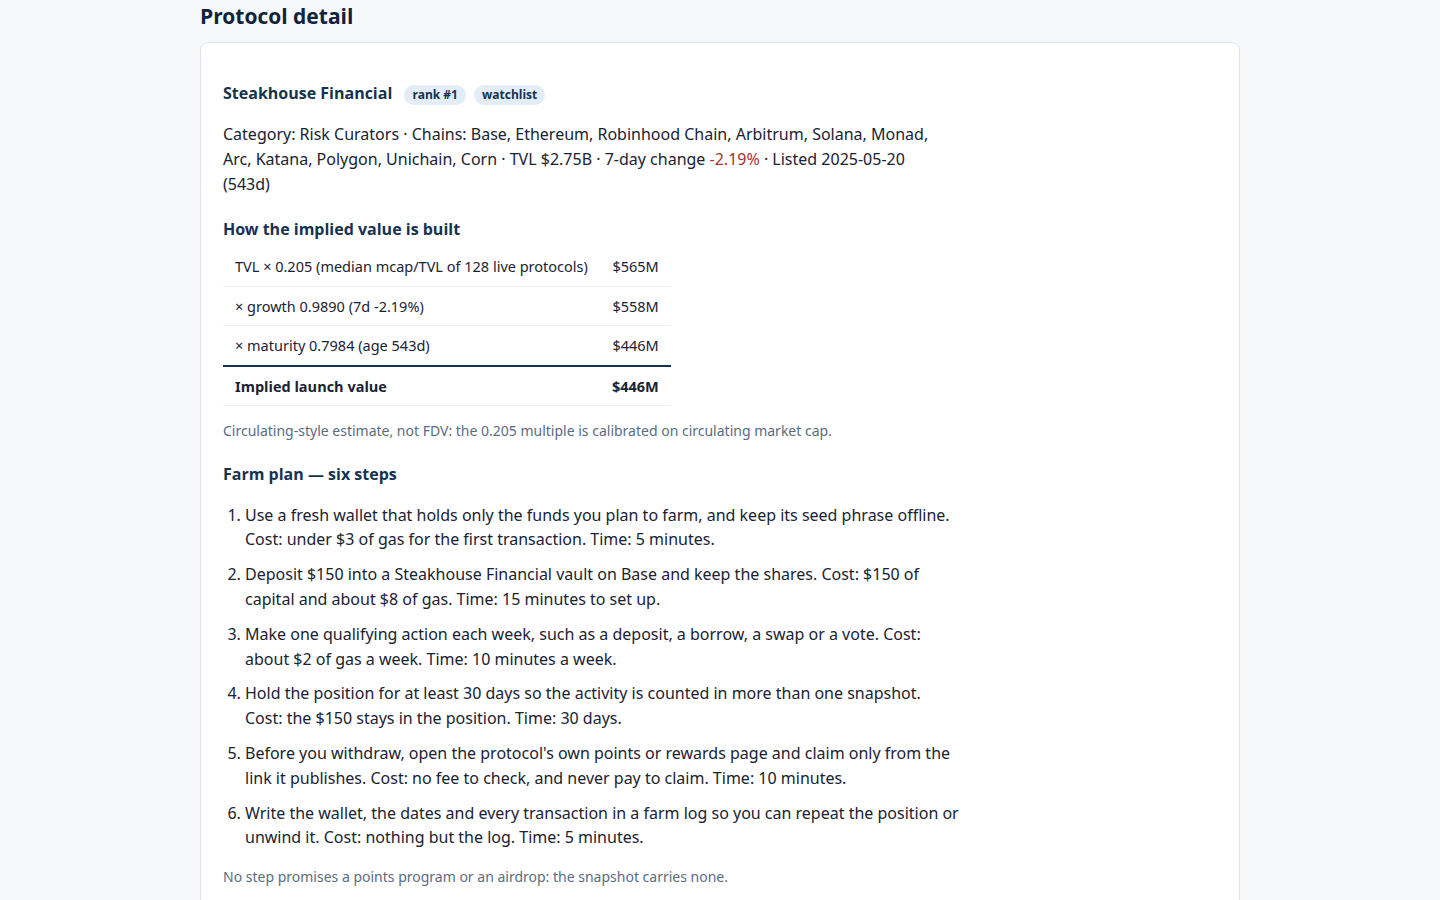
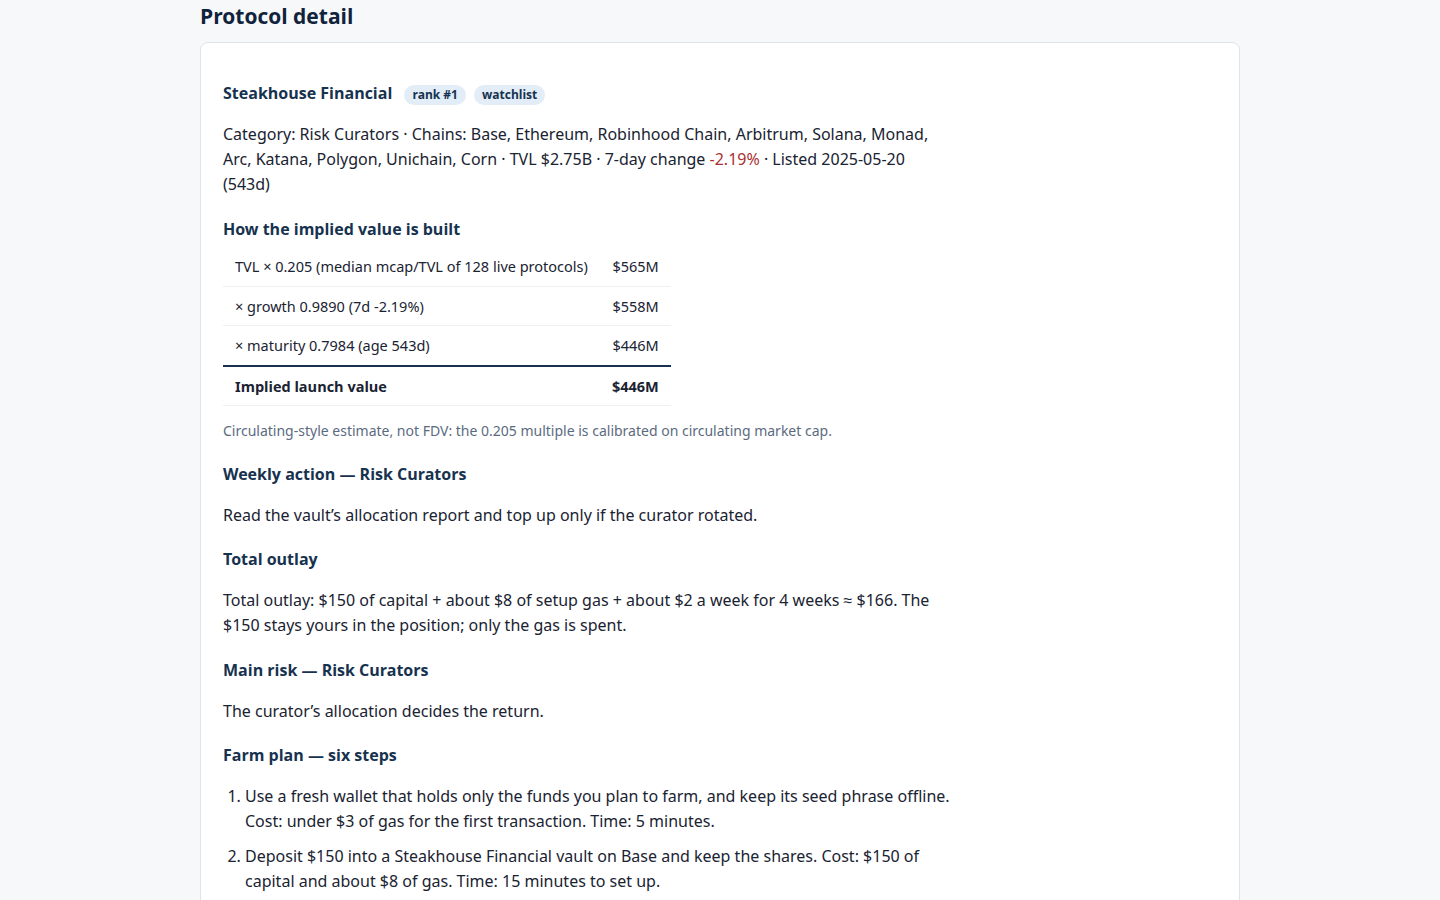
Token Radar pivot P2: per-protocol detail extras (criteria 3)
- Detail view gains three category-specific blocks, rendered between the
  factor breakdown and the six steps so they sit inside the screenshot
  frame: 'Weekly action' per category, 'Total outlay' computed from the
  plan's own numbers (capital + setup gas + weekly gas x hold weeks),
  and 'Main risk' per category.
- All derived in app.js from the row's own fields (category, TVL, age)
  with the same substring rules and tiers as main.ts. The six farm steps
  stay verbatim from board.json; main.ts untouched per the build order.
- Verified live across 13 categories (incl. the Yield Aggregator
  generic fallback, which correctly skips the yield-vault line). Gates
  7/7 PASS.

Changed region(s): [[0.1562, 0.4978, 0.6562, 0.9956]]

diff --git a/dashboard/app.js b/dashboard/app.js
@@ -129,6 +129,96 @@
     $('board-meta').textContent = rows.length + ' of ' + R.rows.length + ' rows shown.';
   }
 
+  // ---- per-category detail extras (derived from the row's own fields) ----
+  // Same substring rules, in the same order, as the plan generator's
+  // category branches — so the detail never disagrees with board.json.
+  // The six farm steps stay verbatim from the row; these lines are extras.
+  function catKey(c) { return (c || '').toLowerCase(); }
+  function weeklyFor(c) {
+    var k = catKey(c);
+    if (k.indexOf('lend') >= 0 || k.indexOf('cdp') >= 0 || k.indexOf('collateral') >= 0)
+      return 'Repay a small part of the borrow and re-supply the same week, so both legs of the position stay active.';
+    if (k.indexOf('dex') >= 0 || k.indexOf('leveraged farm') >= 0)
+      return 'Swap a small amount through the pool and add the fees back to the position.';
+    if (k.indexOf('yield') >= 0 && k.indexOf('yield aggregator') < 0)
+      return 'Claim any accrued yield and redeposit it into the same vault.';
+    if (k.indexOf('bridge') >= 0)
+      return 'Use the bridge once for a small amount and keep the receipt; skip the week if the route is no longer the cheapest.';
+    if (k.indexOf('restak') >= 0)
+      return 'Claim the week\u2019s restaking rewards and restake them.';
+    if (k.indexOf('staking') >= 0)
+      return 'Claim the week\u2019s staking rewards and restake them.';
+    if (k.indexOf('perpetual') >= 0 || k.indexOf('derivative') >= 0)
+      return 'Close the hedge and reopen it, so the position stays inside its margin.';
+    if (k.indexOf('prediction') >= 0)
+      return 'Settle this week\u2019s market position and place the next one.';
+    if (k.indexOf('curator') >= 0 || k.indexOf('allocator') >= 0)
+      return 'Read the vault\u2019s allocation report and top up only if the curator rotated.';
+    if (k.indexOf('basis') >= 0)
+      return 'Check the basis vault\u2019s funding rate and hold the position.';
+    if (k.indexOf('rwa') >= 0)
+      return 'Check the asset\u2019s backing report and hold — no weekly trade is needed.';
+    if (k.indexOf('insurance') >= 0)
+      return 'Check the cover is still active; no weekly action unless the policy nears expiry.';
+    if (k.indexOf('stable') >= 0)
+      return 'Check the peg and hold the stable position.';
+    if (k.indexOf('payment') >= 0)
+      return 'Send one small payment through the app and keep the receipt.';
+    if (k.indexOf('governance') >= 0)
+      return 'Vote on the week\u2019s open proposal, or delegate if there is none.';
+    if (k.indexOf('chain') >= 0)
+      return 'Use the chain\u2019s flagship app once this week and keep the receipt.';
+    if (k.indexOf('cede') >= 0)
+      return 'Check the custodian\u2019s statement and hold the position.';
+    return 'Make one qualifying action this week — a deposit, a borrow, a swap or a vote — and record it in the farm log.';
+  }
+  function riskFor(c) {
+    var k = catKey(c);
+    if (k.indexOf('lend') >= 0 || k.indexOf('cdp') >= 0 || k.indexOf('collateral') >= 0)
+      return 'Liquidation if the collateral falls below the borrow.';
+    if (k.indexOf('dex') >= 0 || k.indexOf('leveraged farm') >= 0)
+      return 'Impermanent loss if the pool\u2019s price ratio moves.';
+    if (k.indexOf('yield') >= 0 && k.indexOf('yield aggregator') < 0)
+      return 'The vault\u2019s strategy can change; the yield is not guaranteed.';
+    if (k.indexOf('bridge') >= 0)
+      return 'Bridged funds depend on the bridge staying solvent.';
+    if (k.indexOf('restak') >= 0 || k.indexOf('staking') >= 0)
+      return 'Slashing, or the receipt token losing its peg.';
+    if (k.indexOf('perpetual') >= 0 || k.indexOf('derivative') >= 0)
+      return 'Funding payments can eat the margin.';
+    if (k.indexOf('prediction') >= 0)
+      return 'A wrong market call loses the stake.';
+    if (k.indexOf('curator') >= 0 || k.indexOf('allocator') >= 0)
+      return 'The curator\u2019s allocation decides the return.';
+    if (k.indexOf('basis') >= 0)
+      return 'The basis trade can unwind if funding flips.';
+    if (k.indexOf('rwa') >= 0)
+      return 'The real-world backing is only as good as its custodian.';
+    if (k.indexOf('insurance') >= 0)
+      return 'A claim can be denied if the policy\u2019s conditions are not met.';
+    if (k.indexOf('stable') >= 0)
+      return 'A depeg breaks the stable value.';
+    if (k.indexOf('payment') >= 0)
+      return 'A failed payment can strand funds in transit.';
+    if (k.indexOf('governance') >= 0)
+      return 'A vote can go against your position.';
+    if (k.indexOf('chain') >= 0)
+      return 'The chain itself is the risk — an outage freezes the position.';
+    if (k.indexOf('cede') >= 0)
+      return 'The custodian holds the funds.';
+    return 'The position can lose value if the protocol\u2019s terms change.';
+  }
+  // Total outlay from the plan's own numbers: capital tiers, setup gas and
+  // hold rule are the same as the plan generator's (TVL and age only).
+  function outlayFor(r) {
+    var capital = r.tvl_usd >= 5e9 ? 250 : r.tvl_usd >= 1e9 ? 150 : r.tvl_usd >= 1e8 ? 100 : 50;
+    var setupGas = capital >= 150 ? 8 : 4;
+    var age = r.age_days;
+    var hold = age === null || age === undefined ? 30 : age < 180 ? 60 : age < 365 ? 45 : 30;
+    var weeks = Math.round(hold / 7);
+    return { capital: capital, setupGas: setupGas, weeks: weeks, total: capital + setupGas + 2 * weeks };
+  }
+
   // ---- detail ----
   function showDetail(slug) {
     var r = null;
@@ -138,6 +228,7 @@
     renderBoard();
     var base = Math.round(r.tvl_usd * R.model.base_multiple);
     var afterGrowth = Math.round(base * r.growth_multiplier);
+    var o = outlayFor(r);
     var body = $('detail-body');
     body.innerHTML =
       '<h3>' + esc(r.name) + ' <span class="tag">rank #' + r.rank + '</span>' +
@@ -153,6 +244,12 @@
       '<tr class="total"><td>Implied launch value</td><td class="num">' + money(r.implied_value_usd) + '</td></tr>' +
       '</tbody></table>' +
       '<p class="meta">Circulating-style estimate, not FDV: the 0.205 multiple is calibrated on circulating market cap.</p>' +
+      '<h3>Weekly action — ' + esc(r.category || 'this category') + '</h3>' +
+      '<p>' + esc(weeklyFor(r.category)) + '</p>' +
+      '<h3>Total outlay</h3>' +
+      '<p>Total outlay: $' + o.capital + ' of capital + about $' + o.setupGas + ' of setup gas + about $2 a week for ' + o.weeks + ' weeks &asymp; $' + o.total + '. The $' + o.capital + ' stays yours in the position; only the gas is spent.</p>' +
+      '<h3>Main risk — ' + esc(r.category || 'this category') + '</h3>' +
+      '<p>' + esc(riskFor(r.category)) + '</p>' +
       '<h3>Farm plan — six steps</h3>' +
       '<ol class="farm">' + r.farm_steps.map(function (s) { return '<li>' + esc(s) + '</li>'; }).join('') + '</ol>' +
       '<p class="meta">No step promises a points program or an airdrop: the snapshot carries none.</p>';
